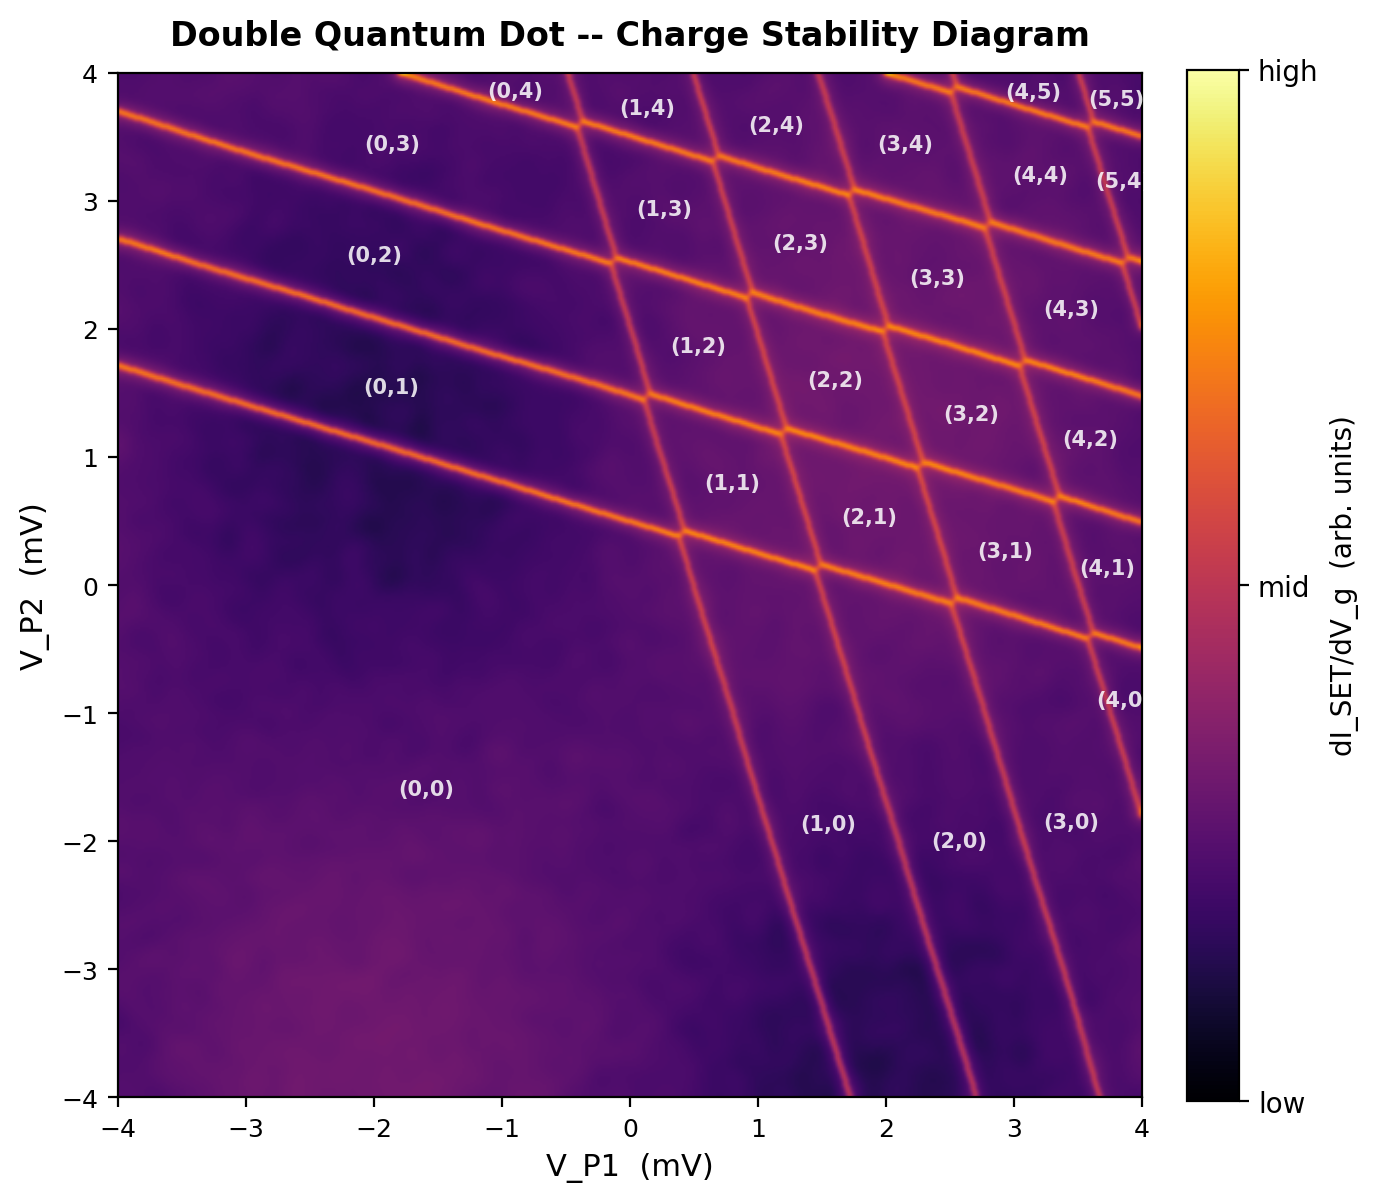
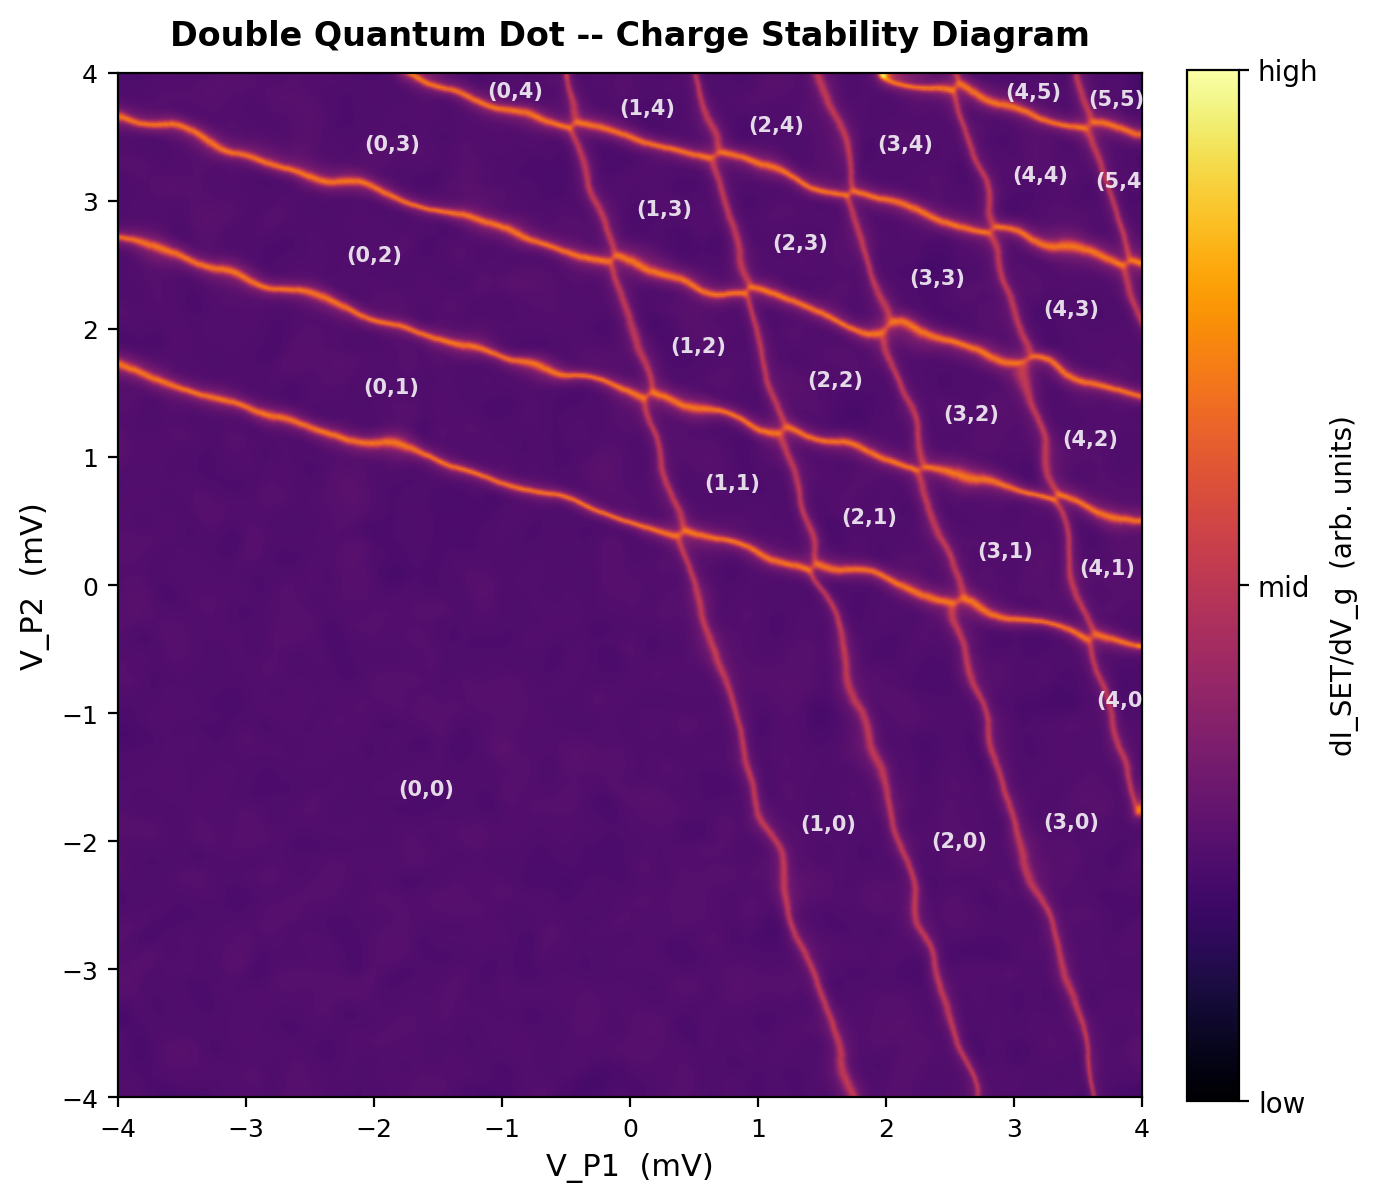
generate 2 CSDs

diff --git a/test_csd_gen_simCATS.py b/test_csd_gen_simCATS.py
@@ -1,0 +1,97 @@
+"""
+USING simcats to try to simulate csds 
+"""
+
+import numpy as np
+import matplotlib
+matplotlib.use("Agg")
+import matplotlib.pyplot as plt
+from scipy.ndimage import gaussian_filter
+
+# simcats api public
+from simcats import Simulation, default_configs
+
+
+from simcats.distortions import OccupationTransitionBlurringGaussian
+
+# config
+
+cfg = default_configs["GaAs_v1"]
+
+VOLT_LIMITS_G1 = cfg["volt_limits_g1"]   # np.array([-0.2,  -0.087])
+VOLT_LIMITS_G2 = cfg["volt_limits_g2"]   # np.array([-0.2,  -0.047])
+
+RESOLUTION = 500   # pixels per axis → (500, 500) image
+
+
+sim = Simulation(
+    volt_limits_g1=VOLT_LIMITS_G1,
+    volt_limits_g2=VOLT_LIMITS_G2,
+    ideal_csd_config=cfg["ideal_csd_config"],
+    sensor=cfg["sensor"],
+    occupation_distortions=[
+        OccupationTransitionBlurringGaussian(0.75 * 0.03 / 100),
+    ],
+)
+
+
+#  measure
+
+
+csd, occupations, lead_transitions, metadata = sim.measure(
+    sweep_range_g1=VOLT_LIMITS_G1,
+    sweep_range_g2=VOLT_LIMITS_G2,
+    resolution=np.array([RESOLUTION, RESOLUTION]),
+)
+
+
+lt = (lead_transitions > 0).astype(np.float64)   # binary: line vs background
+
+core = gaussian_filter(lt, sigma=1.0)
+glow = gaussian_filter(lt, sigma=3.5)
+lines = 0.6 * core + 0.4 * glow
+lines_norm = lines / (lines.max() + 1e-12)
+
+
+rng = np.random.default_rng(seed=42)
+charge_noise = gaussian_filter(
+    rng.normal(0, 1, (RESOLUTION, RESOLUTION)), sigma=5
+) * 0.04
+
+signal = lines_norm + 0.06 + charge_noise
+signal = np.clip(signal, 0, None) / signal.max()
+signal_display = np.power(signal, 0.55)   # gamma stretch
+
+#plot
+fig, ax = plt.subplots(figsize=(7, 6.5))
+
+im = ax.imshow(
+    signal_display,
+    extent=[VOLT_LIMITS_G1[0], VOLT_LIMITS_G1[1],
+            VOLT_LIMITS_G2[0], VOLT_LIMITS_G2[1]],
+    origin="lower",
+    aspect="auto",
+    interpolation="bilinear",
+    cmap="inferno",
+    vmin=0.0,
+    vmax=1.0,
+)
+
+cbar = plt.colorbar(im, ax=ax, fraction=0.046, pad=0.04)
+cbar.set_label("dI_SET/dV_g  (arb. units)", fontsize=10)
+cbar.set_ticks([0.0, 0.5, 1.0])
+cbar.set_ticklabels(["low", "mid", "high"])
+
+ax.set_title("Double Quantum Dot - Charge Stability Diagram (SimCATS GaAs_v1)",
+             fontweight="bold", fontsize=11, pad=10)
+ax.set_xlabel("V_G1  (V)", fontsize=11)
+ax.set_ylabel("V_G2  (V)", fontsize=11)
+ax.tick_params(labelsize=9)
+
+fig.tight_layout()
+fig.savefig("csd_simcats.png", dpi=200, bbox_inches="tight")
+print("Saved: csd_simcats.png")
+print(f"CSD shape         : {csd.shape}")
+print(f"Lead transitions  : {np.unique(lead_transitions).tolist()} unique values")
+print(f"Volt g1           : {VOLT_LIMITS_G1}")
+print(f"Volt g2           : {VOLT_LIMITS_G2}")

diff --git a/test_csd_gen.py b/test_csd_gen.py
@@ -48,19 +48,17 @@ charge_noise = gaussian_filter(
     rng.normal(0, 1, (RESOLUTION, RESOLUTION)), sigma=5
 ) * 0.07
 
-vx_arr = np.linspace(0, 1, RESOLUTION)
-vy_arr = np.linspace(0, 1, RESOLUTION)
-Vx, Vy = np.meshgrid(vx_arr, vy_arr)
-background_drift = 0.05 * np.sin(2.0 * np.pi * Vx) * np.cos(1.5 * np.pi * Vy)
+background_drift = gaussian_filter(
+    rng.normal(0, 1, (RESOLUTION, RESOLUTION)), sigma=200 
+) * 0.015 
 
 lines_norm = lines / (lines.max() + 1e-12)
 signal     = lines_norm + 0.08 + background_drift + charge_noise
 signal     = np.clip(signal, 0, None)
 signal     = signal / signal.max()
-
 #warp
-WOBBLE_SIGMA     = 22    # px — spatial scale (smaller = faster wiggles)
-WOBBLE_AMPLITUDE = 18    # px — shift magnitude (larger = more dramatic wobble)
+WOBBLE_SIGMA     = 8     # px — spatial scale (decreased for faster, more frequent wiggles)
+WOBBLE_AMPLITUDE = 45    # px — shift magnitude (increased for a more dramatic warp)
 
 disp_x = gaussian_filter(
     rng.normal(0, 1, (RESOLUTION, RESOLUTION)), sigma=WOBBLE_SIGMA
@@ -77,7 +75,6 @@ signal_warped = map_coordinates(
     order=1,
     mode="nearest",
 )
-
 # Gamma stretch after warp
 signal_display = np.power(np.clip(signal_warped, 0, 1), 0.55)
 
